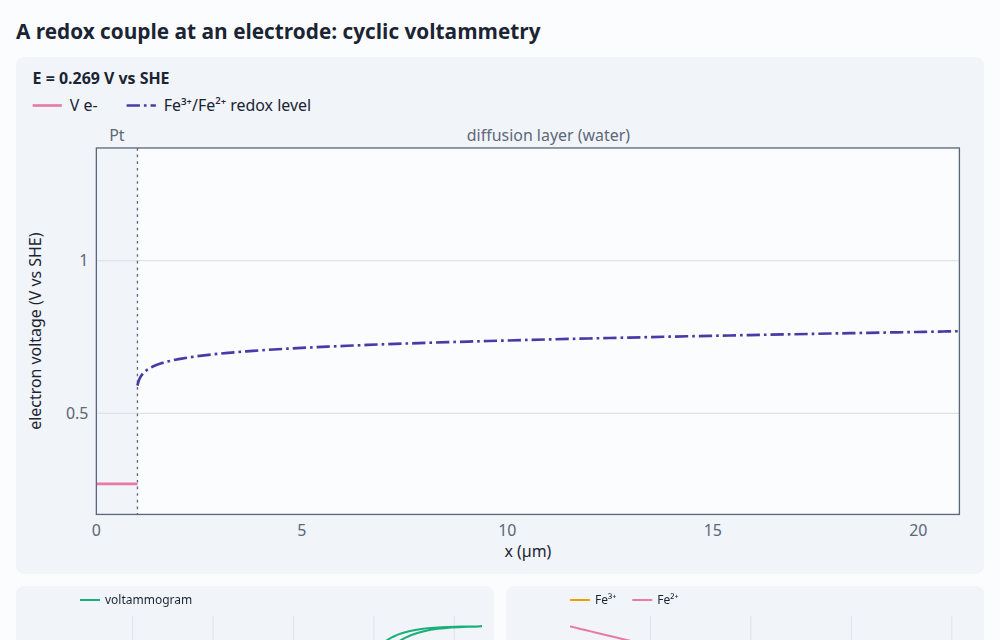
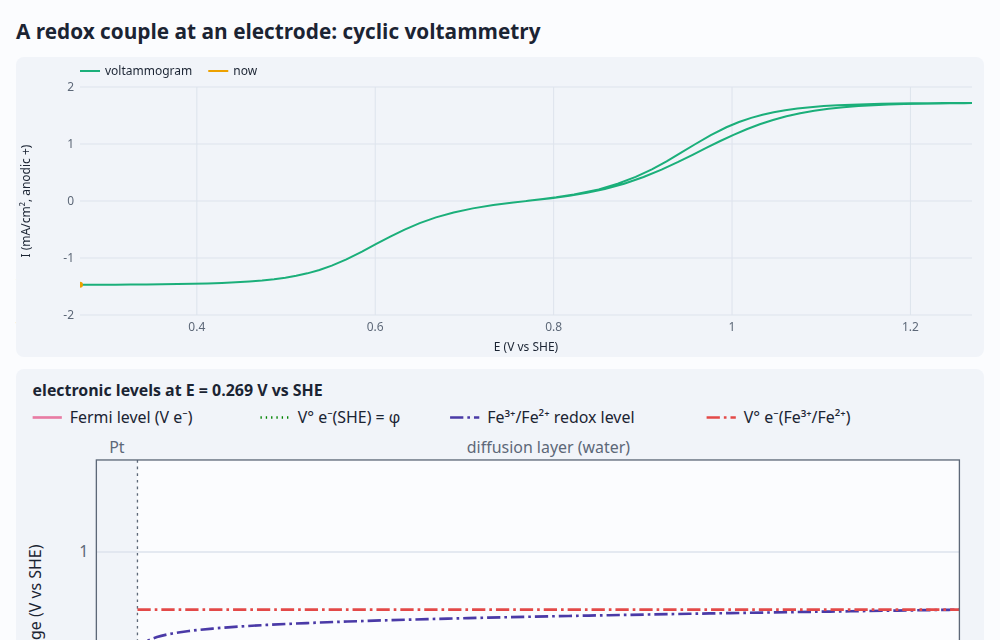
CV demo: voltammogram first; the SHE's and the couple's standard levels; Cl⁻; an ionic diagram
From the owner's review: the electronic diagram adds V°e⁻(SHE) = φ (table μ°), nearly level with
the supporting electrolyte, which makes plain that 'vs SHE' means against it in the stirred bulk,
and the couple's standard level, from which the redox level differs by V_T ln(c₃/c₂). The
concentrations (now with Cl⁻, on a log scale) and a new ionic diagram (V_i and V°_i for Fe³⁺,
Fe²⁺, Cl⁻) follow on the same x range, after the voltammogram.

diff --git a/demos/redox.html b/demos/redox.html
@@ -10,11 +10,16 @@
 <main>
   <h1>A redox couple at an electrode: cyclic voltammetry</h1>
   <p>Fe³⁺ + e⁻ ⇌ Fe²⁺ at platinum, in 0.5 M KCl, through a 20 µm stagnant layer to a stirred bulk.
-    The diagram shows the platinum's Fermi level and the couple's redox level, the electronic level at which
-    the local Fe³⁺/Fe²⁺ mixture is in equilibrium. The gap between them at the surface is the overpotential,
-    which drives Butler–Volmer kinetics; the slope of the redox level across the layer is concentration
-    polarisation. Slow scans give the steady, sigmoidal wave of a convective electrode; fast ones outrun
-    diffusion and give peaks. A small rate constant pulls the waves apart.</p>
+    Slow scans give the steady, sigmoidal wave of a convective electrode; fast ones outrun diffusion and give
+    the peaks of a still solution. A small rate constant pulls the waves apart.</p>
+  <p>The first diagram is electronic: the platinum's Fermi level, and the couple's redox level, the electronic
+    level at which the local Fe³⁺/Fe²⁺ mixture is in equilibrium. The gap between them at the surface is the
+    overpotential, which drives Butler–Volmer kinetics; the redox level's slope across the layer is
+    concentration polarisation. It sits V<sub>T</sub> ln(c₃/c₂) from the couple's standard level, which in turn
+    rides a fixed distance above the SHE's standard level, φ itself with table μ°. That one is nearly level
+    thanks to the supporting electrolyte, and "vs SHE" means against it in the stirred bulk, at the right.
+    The last diagram is the same story ion by ion: each species' voltage V<sub>i</sub> and standard level
+    V°<sub>i</sub> (K⁺, about 3 V lower, is left out).</p>
   <div class="controls">
     <label>scan rate <input id="rate" type="range" min="-3" max="1" step="0.25" value="-1"><output id="rateOut"></output></label>
     <label>k⁰ <input id="k0" type="range" min="-6" max="-1" step="0.5" value="-3"><output id="k0Out"></output></label>
@@ -27,9 +32,10 @@
     <span class="readout" id="status"></span>
   </div>
   <div class="grid">
+    <canvas class="wide" id="cv"></canvas>
     <div class="levels wide" id="levels"></div>
-    <canvas id="cv"></canvas>
-    <canvas id="conc"></canvas>
+    <canvas class="wide" id="conc"></canvas>
+    <div class="levels wide" id="ions"></div>
   </div>
 </main>
 <script type="module">
@@ -97,25 +103,43 @@ function frame(now = performance.now()) {
   });
   const E = sol.terminals.left.V;
   document.getElementById('status').textContent = `t = ${sol.time.toFixed(2)} s · E = ${E.toFixed(3)} V vs SHE`;
-  levels(document.getElementById('levels'), sol, {
-    title: `E = ${E.toFixed(3)} V vs SHE`,
-    species: ['e-'],
-    levels: [{ half: iron, label: 'Fe³⁺/Fe²⁺ redox level' }],
-    range: [Erest - 0.6, Erest + 0.6],
-    ylabel: 'electron voltage (V vs SHE)',
-  });
   chart(document.getElementById('cv'), {
     // Fixed axes (the sweep's span, and at least the limiting currents), so the curve draws into them.
     xlabel: 'E (V vs SHE)', ylabel: 'I (mA/cm², anodic +)', xlim: [Erest - 0.5, Erest + 0.5],
     ylim: (() => { const m = Math.max(2, 1.1 * Math.max(0, ...cv.I.map(Math.abs))); return [-m, m]; })(),
-    series: [{ x: cv.E, y: cv.I, color: colors[2], label: 'voltammogram' }],
-  });
-  chart(document.getElementById('conc'), {
-    xscale: 1e6, xlabel: 'x (µm)', ylabel: 'concentration (mM)', xlim: [1, 21],
     series: [
-      { x: sol.x, y: sol.c['Fe3+'], color: colors[3], label: 'Fe³⁺' },
-      { x: sol.x, y: sol.c['Fe2+'], color: colors[4], label: 'Fe²⁺' },
+      { x: cv.E, y: cv.I, color: colors[2], label: 'voltammogram' },
+      { x: [E], y: [cv.I.at(-1) ?? 0], color: colors[3], marker: true, width: 0, label: 'now' },
     ],
+  });
+  // Electronic levels: the metal's Fermi level; the couple's redox level and its standard level;
+  // and the SHE's standard level, which with table μ° (μ°_H⁺ = 0, μ_H₂ = 0) is φ itself.
+  levels(document.getElementById('levels'), sol, {
+    title: `electronic levels at E = ${E.toFixed(3)} V vs SHE`,
+    species: ['e-'],
+    phi: true,
+    labels: { 'V:e-': 'Fermi level (V e⁻)', phi: 'V° e⁻(SHE) = φ' },
+    levels: [
+      { half: iron, label: 'Fe³⁺/Fe²⁺ redox level' },
+      { half: iron, standard: true, label: 'V° e⁻(Fe³⁺/Fe²⁺)' },
+    ],
+    range: [Math.min(-0.1, Erest - 0.6), Erest + 0.6],
+    ylabel: 'electron voltage (V vs SHE)',
+  });
+  // Same x range as the diagrams above; log scale, so the iron shows beside 0.5 M of chloride.
+  chart(document.getElementById('conc'), {
+    xscale: 1e6, xlabel: 'x (µm)', ylabel: 'concentration (mM)', xlim: [0, 21], logy: true, ylim: [1e-3, 2000],
+    series: [
+      { x: sol.x, y: sol.c['Fe3+'], color: colors[2], label: 'Fe³⁺' },
+      { x: sol.x, y: sol.c['Fe2+'], color: colors[3], label: 'Fe²⁺' },
+      { x: sol.x, y: sol.c['Cl-'], color: colors[1], label: 'Cl⁻' },
+    ],
+  });
+  // The ionic view (ESBD): each ion's voltage V_i = μ̄_i/(z_i F), solid, and standard level V°_i, dashed.
+  levels(document.getElementById('ions'), sol, {
+    title: 'ionic species voltages and standard levels',
+    species: ['Fe3+', 'Fe2+', 'Cl-'],
+    ylabel: 'voltage (V)',
   });
   if (sol.time < Math.min(cv.end, cv.stop) && sol.converged) requestAnimationFrame(frame);
   else running = false;
